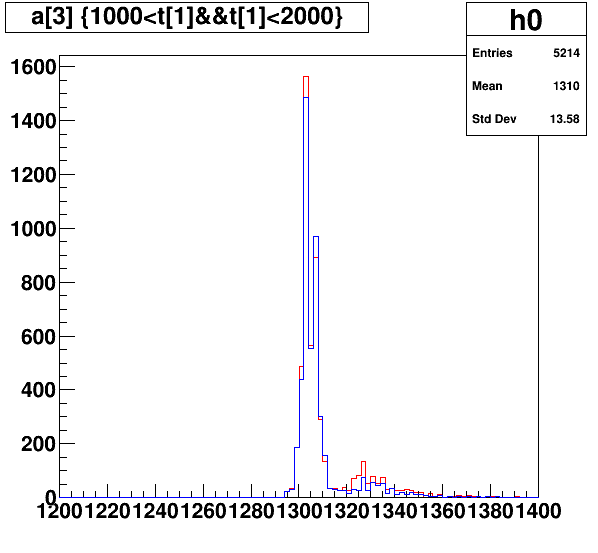
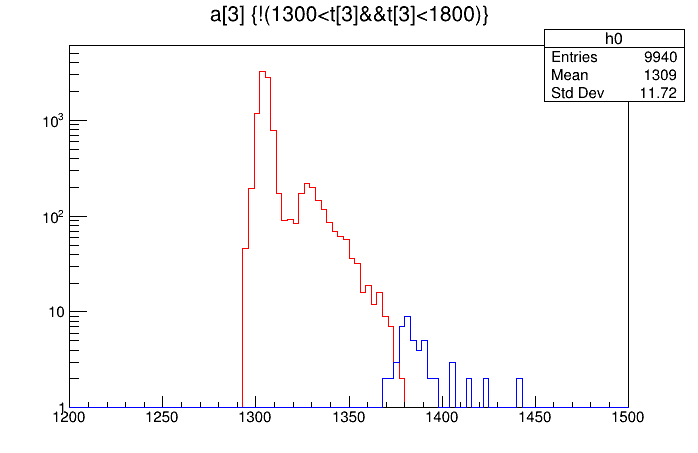
update

diff --git a/script/script_test/test002.C b/script/script_test/test002.C
@@ -11,7 +11,7 @@
 
 
     // labo PC
-    TFile *f0 = TFile :: Open("C:/Users/niiyama/Desktop/Kyotaro_Nishi/root/root_analysis/data_test/test002.root");
+    TFile *f0 = TFile :: Open("C:/Users/niiyama/Desktop/Kyotaro_Nishi/root/root_analysis/data/data_test/test002.root");
     // TFile *f1 = TFile :: Open("C:/Users/niiyama/Desktop/Kyotaro_Nishi/root/root_analysis/data_win/win001.root");
     // TFile *f2 = TFile :: Open("C:/Users/posei/Desktop/tokken/winscp/data_test/data_cas/cas005.root");
     // TFile *f1 = TFile :: Open("C:/Users/posei/Desktop/tokken/winscp/data_test/data_hal/hal00.root");
@@ -19,17 +19,18 @@
     
     
     f0->cd();
-    // T->Draw("t[0]>>h0(100,1000,1600)");
-    // T->Draw("t[0]");
+    // T->Draw("t[3]>>h0(100,1000,2000)");
+    // T->Draw("t[1]>>h0");
+    // c1->SetLogy();
     // T->Draw("a[1]>>h0(100,1300,1500)");
     // T->Draw("a[2]>>h0(100,1400,1600)");
     // T->Draw("a[3]>>h0(100,1250,1500)");
 
     
-    // T->Draw("a[2]>>h0(100,1400,1600)","1000<t[0]&&t[0]<1600");
-    // T->Draw("a[2]>>h0(100,1400,1600)","t[2]>1600");
+    // T->Draw("a[2]>>h0(100,1400,1700)","!(1000<t[2]&&t[2]<2000)");
+    
 
-    T->Draw("a[3]>>h0(100,1200,1400)","1500<t[1]&&t[1]<1700");
+    T->Draw("a[3]>>h0(100,1200,1500)","!(1300<t[3]&&t[3]<1800)");
     // T->Draw("a[3]>>h0(100,1250,1500)","t[2]>1600");
 
     // T->Draw("a[4]:a[6]>>h0(100,1200,3000,100,1200,3000)>");
@@ -56,12 +57,11 @@
     // T->Draw("a[2]>>h1(100,0,1000)","","same");
     // T->Draw("a[3]>>h1(100,0,1000)"),"","same";
 
+    // c1->SetLogy();
     
-    // T->Draw("a[2]>>h1(100,1400,1600)","!(1000<t[0]&&t[0]<1600)","same");
-    // T->Draw("a[2]>>h0(100,1300,1700)","1000<t[2]&&t[2]<1600","same");
+    // T->Draw("a[2]>>h1(100,1400,1700)","1000<t[2]&&t[2]<2000","same");
 
-    // T->Draw("a[3]>>h1(100,1250,1500)","1000<t[2]&&t[2]<1600","same");
-    T->Draw("a[3]>>h1(100,1200,1400)","!(1500<t[1]&&t[1]<1700)","same");
+    T->Draw("a[3]>>h1(100,1200,1500)","1300<t[3]&&t[3]<1800","same");
 
     // // // // T->Draw("a[0]>>h1(100,0,3000)","","same");
 
@@ -73,6 +73,7 @@
     // h1->Scale(h0->GetEntries()/h1->GetEntries());
 
 
+    c1->SetLogy();
 
     h1->SetLineColor(4);
     h1->Draw("same");
@@ -94,5 +95,5 @@
 
 //     // c1->Print("/mnt/c/Users/posei/Desktop/tokken/winscp/data_test/output/run013_015.pdf");
 //     c1->Print("C:/Users/posei/Desktop/tokken/winscp/data_test/output/hal008_009_a[3].pdf");
-    // c1->Print("C:/Users/niiyama/Desktop/Kyotaro_Nishi/root/root_analysis/output/test002_t[0].png");
+    // c1->Print("C:/Users/niiyama/Desktop/Kyotaro_Nishi/root/root_analysis/output/output_test/test002_a[3].png");
 // }
